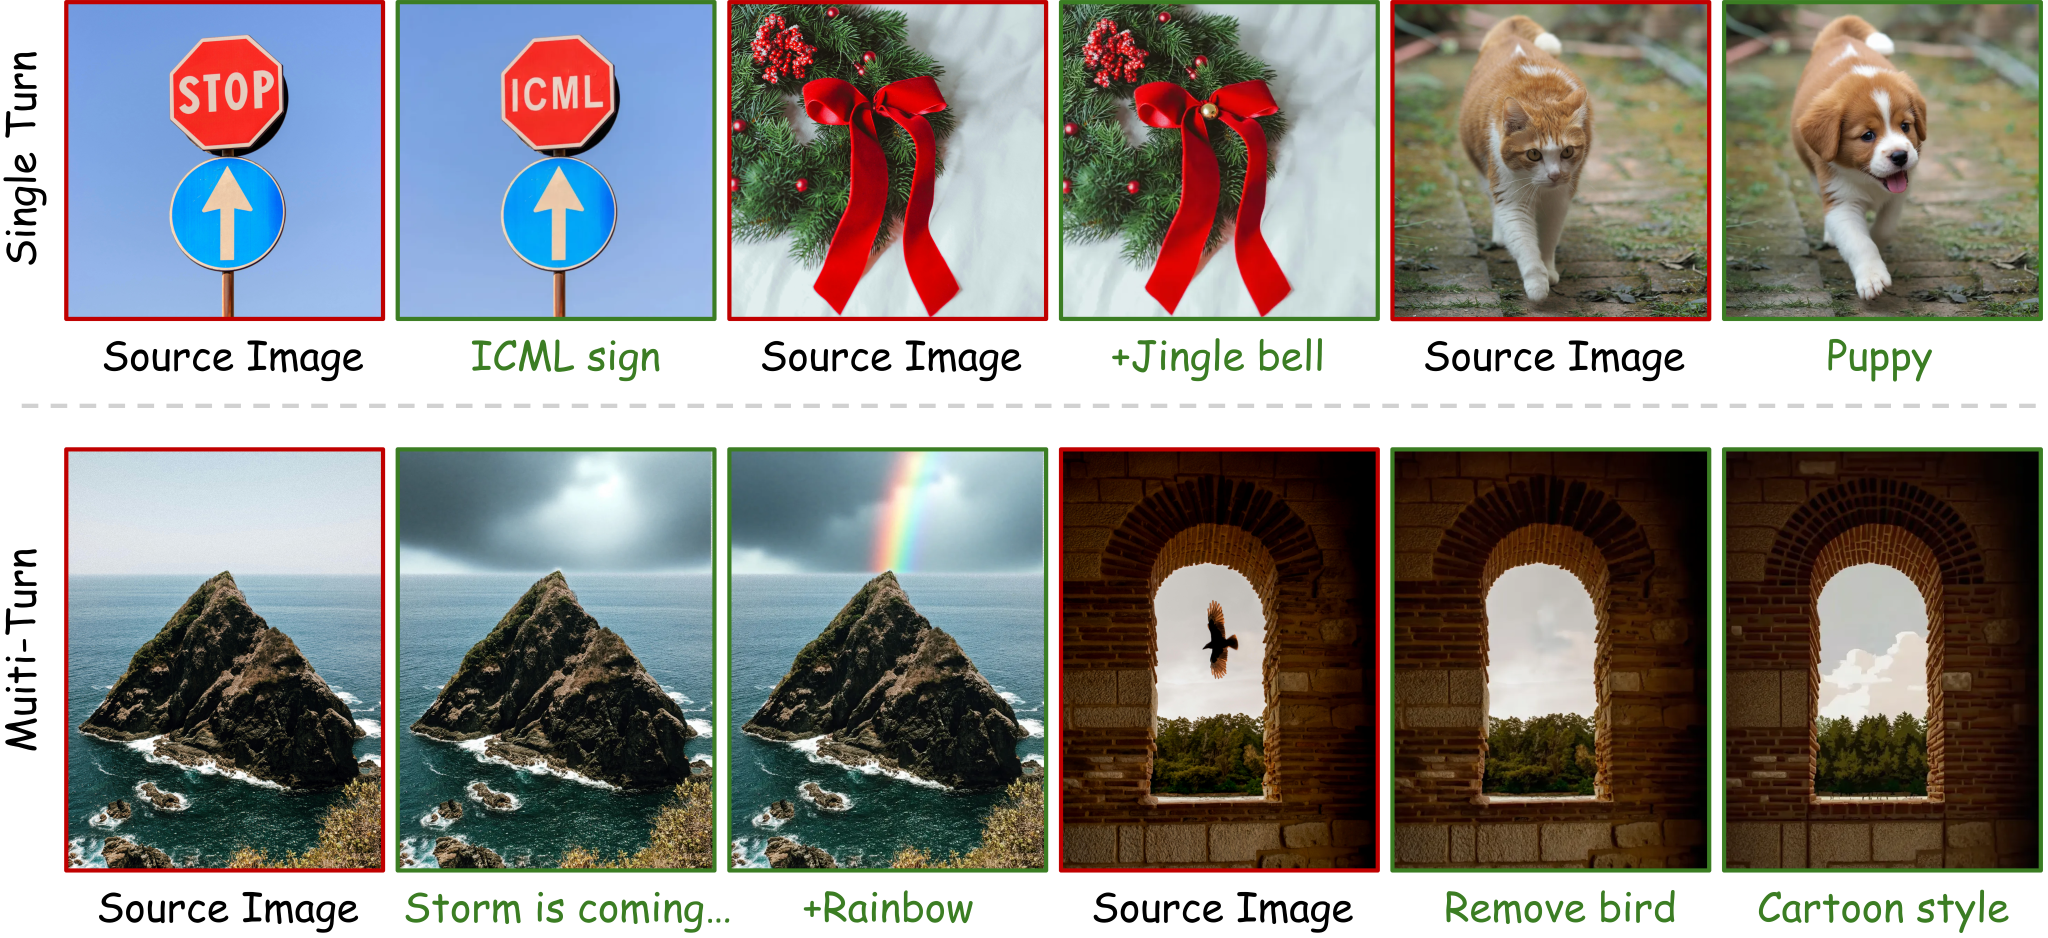
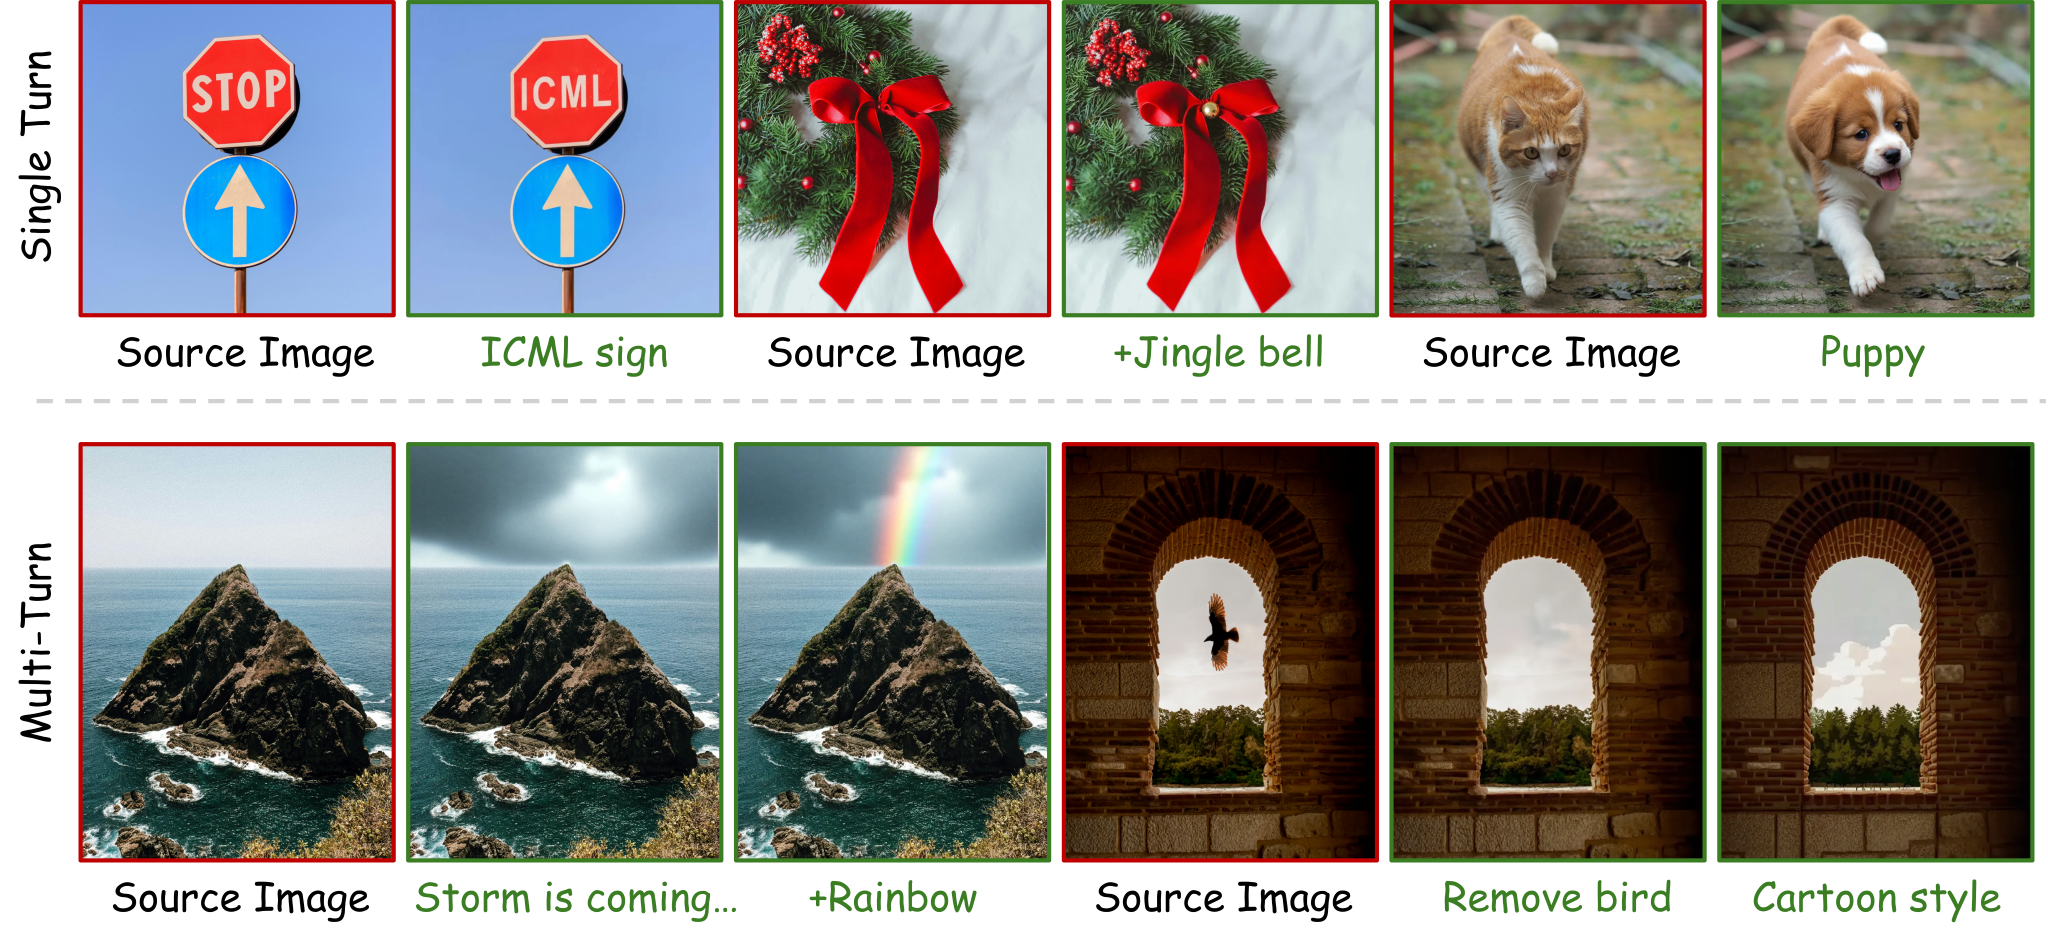
update fig

diff --git a/index.html b/index.html
@@ -166,7 +166,6 @@
     "@type": "Organization",
     "name": "INSTITUTION_OR_LAB_NAME",
     "url": "https://YOUR_INSTITUTION_WEBSITE.com",
-    "logo": "https://YOUR_DOMAIN.com/static/images/favicon.ico",
     "sameAs": [
       "https://twitter.com/YOUR_TWITTER_HANDLE",
       "https://github.com/YOUR_GITHUB_USERNAME"
@@ -200,7 +199,7 @@
 
                   <div class="is-size-5 publication-authors">
                     <!-- TODO: Replace with your institution and conference/journal info -->
-                    <span class="author-block"><sup>1</sup> Wuhan University<br>arXiv 2026</span>
+                    <span class="author-block"><sup>1</sup> Wuhan University<br>ICML 2026</span>
                   </div>
 
                   <div class="column has-text-centered">